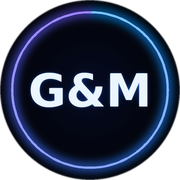
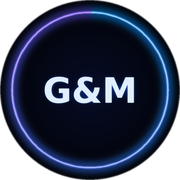
changes

diff --git a/sw.js b/sw.js
@@ -1,38 +1,23 @@
-const CACHE_NAME = 'gm-plan-v1';
-const ASSETS = [
-  '/',
-  '/index.html',
-  '/manifest.json'
-];
+const CACHE = 'gm-plan-v2';
+const ASSETS = ['/', '/index.html', '/manifest.json', '/icons/icon-192.png'];
 
 self.addEventListener('install', e => {
-  e.waitUntil(
-    caches.open(CACHE_NAME).then(cache => cache.addAll(ASSETS))
-  );
+  e.waitUntil(caches.open(CACHE).then(c => c.addAll(ASSETS)));
   self.skipWaiting();
 });
-
 self.addEventListener('activate', e => {
-  e.waitUntil(
-    caches.keys().then(keys =>
-      Promise.all(keys.filter(k => k !== CACHE_NAME).map(k => caches.delete(k)))
-    )
-  );
+  e.waitUntil(caches.keys().then(ks => Promise.all(ks.filter(k => k !== CACHE).map(k => caches.delete(k)))));
   self.clients.claim();
 });
-
 self.addEventListener('fetch', e => {
   if (e.request.method !== 'GET') return;
   e.respondWith(
     caches.match(e.request).then(cached => {
-      const network = fetch(e.request).then(res => {
-        if (res.ok) {
-          const clone = res.clone();
-          caches.open(CACHE_NAME).then(c => c.put(e.request, clone));
-        }
-        return res;
+      const net = fetch(e.request).then(r => {
+        if (r.ok) caches.open(CACHE).then(c => c.put(e.request, r.clone()));
+        return r;
       }).catch(() => cached);
-      return cached || network;
+      return cached || net;
     })
   );
 });

diff --git a/index.html b/index.html
@@ -20,7 +20,7 @@
   <link rel="manifest" href="/manifest.json" />
 
   <!-- Apple touch icons -->
[1 lines of base64/hex data omitted]
+  <link rel="apple-touch-icon" href="/icons/apple-touch-icon.png" />
[1 lines of base64/hex data omitted]
 
   
@@ -6967,9 +6967,7 @@
   <script>
     if ('serviceWorker' in navigator) {
       window.addEventListener('load', () => {
-        navigator.serviceWorker.register('/sw.js')
-          .then(r => console.log('SW registered'))
-          .catch(e => console.log('SW failed', e));
+        navigator.serviceWorker.register('/sw.js').catch(() => {});
       });
     }
   </script>

diff --git a/README.md b/README.md
@@ -1,43 +1,11 @@
-# G & M Plan — Gym & Meal Tracker PWA
+# G & M Plan
 
-A fully offline-capable Progressive Web App for tracking workouts, meals, body weight, and fitness goals.
-
-## Features
-- 7-day workout plan with sets, reps, and weight tracking
-- Personal records tracking with history
-- Calorie & meal logging
-- BMI + TDEE calculator
-- Body projection (lose/gain estimates)
-- Streak heatmap calendar
-- Weekly volume trend chart
-- Dark/Light/System theme
-- Fully offline (PWA)
+Gym & Meal tracker PWA. No build step — pure HTML/CSS/JS.
 
 ## Deploy on Vercel
-
-1. Push this folder to a GitHub repo
-2. Import the repo at [vercel.com](https://vercel.com)
-3. Framework preset: **Other**
-4. Root directory: `/` (default)
-5. No build command needed — static site
-6. Click **Deploy**
+1. Push this folder to GitHub
+2. Import at vercel.com → Framework: Other → Deploy
 
 ## Deploy on Netlify
-
 1. Push to GitHub
-2. New site from Git at [netlify.com](https://netlify.com)
-3. Build command: *(leave blank)*
-4. Publish directory: `.` (root)
-5. Click **Deploy**
-
-## Local development
-
-Just open `index.html` in a browser. No build step needed.
-
-## PWA Icons
-
-Place your app icons in an `icons/` folder:
-- `icons/icon-192.png` — 192×192px
-- `icons/icon-512.png` — 512×512px
-
-You can generate icons at [realfavicongenerator.net](https://realfavicongenerator.net)
+2. netlify.com → New site → Build command: blank, Publish: `.`